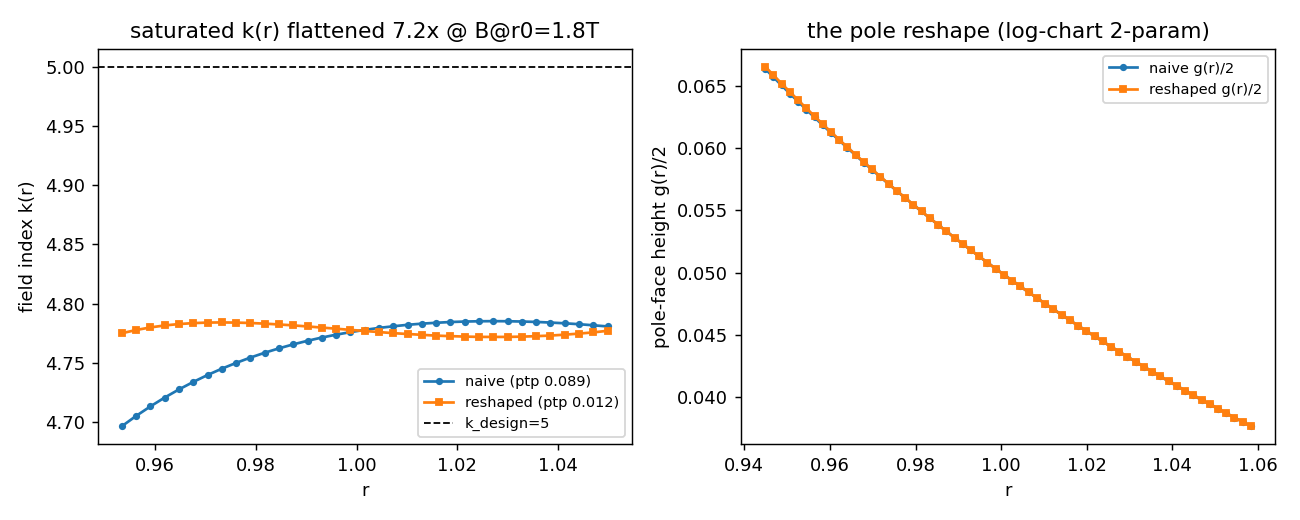
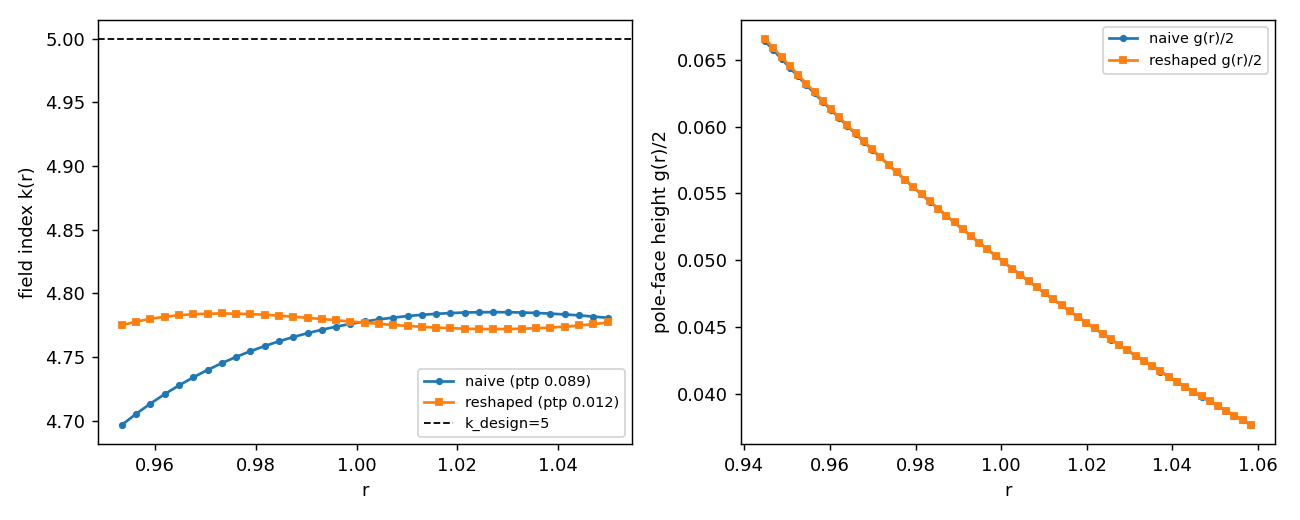
examples: remove in-figure titles from FFAG plots

diff --git a/examples/clebsch_hodograph/scaling_ffag_pole_2d.py b/examples/clebsch_hodograph/scaling_ffag_pole_2d.py
@@ -812,11 +812,9 @@ def _figure_step2(s2):
                    label=f"B@r0={L['B_target']:.1f}T")
     ax[0].axhline(0, color="k", lw=0.8)
     ax[0].set_xlabel("r"); ax[0].set_ylabel("dk(r) = k - k(unsaturated)")
-    ax[0].set_title("field-index droop (high-r edge saturates)")
     ax[0].legend(fontsize=7)
     ax[1].axhline(s2["Bk_iron"], color="r", ls="--", lw=1, label="iron knee Bk")
     ax[1].set_xlabel("r"); ax[1].set_ylabel("|B_gap|(r)  [T]")
-    ax[1].set_title("gap field: high-r end crosses the knee")
     ax[1].legend(fontsize=7)
     fig.tight_layout()
     out = os.path.join(os.path.dirname(os.path.abspath(__file__)),
@@ -839,8 +837,6 @@ def _figure_step3(s3):
     ax[0].axhline(s3["k_design"], color="k", ls="--", lw=1,
                   label=f"k_design={s3['k_design']:.0f}")
     ax[0].set_xlabel("r"); ax[0].set_ylabel("field index k(r)")
-    ax[0].set_title(f"saturated k(r) flattened {s3['ptp_improvement']:.1f}x"
-                    f" @ B@r0={s3['B_design']:.1f}T")
     ax[0].legend(fontsize=8)
     # pole gap profiles (the shape change)
     r_min, r_max = s3["aperture"]
@@ -850,7 +846,6 @@ def _figure_step3(s3):
     ax[1].plot(rs, scaling_gap(rs, K_INDEX, G0, R0, o["gamma"], o["gamma2"]) / 2.0,
                "s-", ms=3, label="reshaped g(r)/2")
     ax[1].set_xlabel("r"); ax[1].set_ylabel("pole-face height g(r)/2")
-    ax[1].set_title("the pole reshape (log-chart 2-param)")
     ax[1].legend(fontsize=8)
     fig.tight_layout()
     out = os.path.join(os.path.dirname(os.path.abspath(__file__)),
